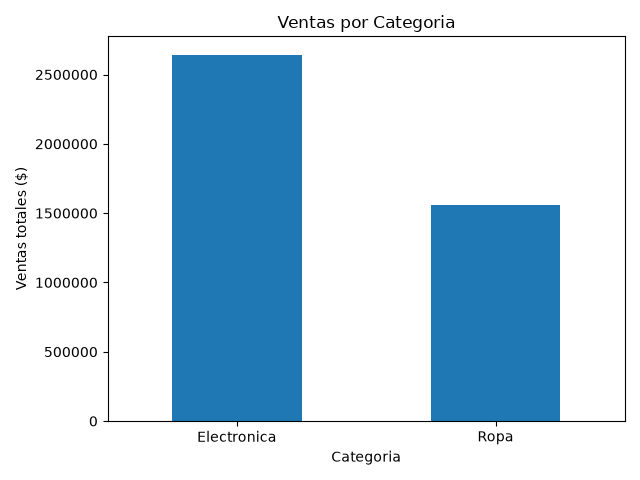
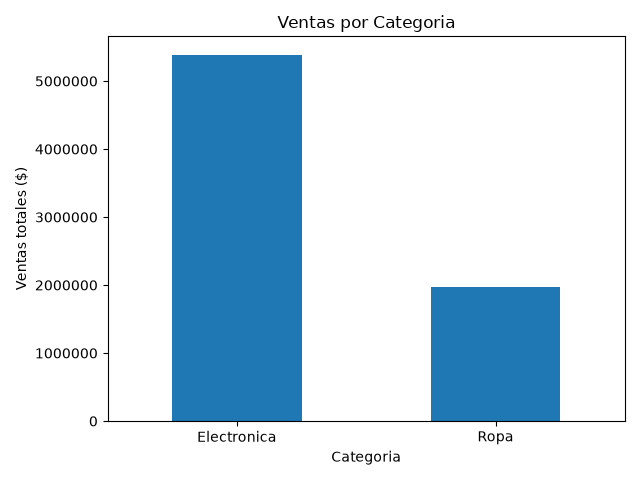
agregar métricas de negocio y reflexión final al README

diff --git a/main.py b/main.py
@@ -73,10 +73,43 @@ def procesar_todo():
     print(producto_mas_vendido)
     print(f"Producto mas vendido: {producto_mas_vendido.index[0]} con {producto_mas_vendido.iloc[0]} ventas")
 
-    with open("resultados/log_automatizacion.txt", "a") as f:
+    with open("resultados/log_automatizacion.txt", "a", encoding="utf-8") as f:
         f.write(f"Proceso ejecutado: {pd.Timestamp.now()}\n")
         f.write(f"Total de registros procesados: {len(df_limpio)}\n")
         f.write("---\n")
+
+    # ============================================
+    # Banner visual con resumen en pantalla
+    # ============================================
+    total_ventas = df_limpio['precio_unitario'].sum()
+    print("=" * 40)
+    print("  NUEVO REPORTE PROCESADO EXITOSAMENTE")
+    print(f"  Total ventas acumuladas: ${total_ventas:,.0f}")
+    print("=" * 40)
+
+    # ============================================
+    # Resumen ejecutivo en archivo de texto
+    # (usamos df_limpio, no df_consolidado, para que
+    # el resumen refleje los datos ya sin nulos ni duplicados)
+    # ============================================
+    categoria_top = df_limpio.groupby('categoria')['precio_unitario'].sum().idxmax()
+    vendedor_top = df_limpio.groupby('vendedor')['precio_unitario'].sum().idxmax()
+
+    # Métrica nueva 1: producto más vendido (reutilizando value_counts() de arriba)
+    producto_top = producto_mas_vendido.index[0]
+    unidades_producto_top = producto_mas_vendido.iloc[0]
+
+    # Métrica nueva 2: promedio de venta por transacción
+    promedio_venta = df_limpio['precio_unitario'].mean()
+
+    with open("resultados/resumen_ejecutivo.txt", "w", encoding="utf-8") as f:
+        f.write("RESUMEN EJECUTIVO - Bot de Ventas\n")
+        f.write(f"Fecha: {pd.Timestamp.now()}\n\n")
+        f.write(f"Categoria con mejor desempeño: {categoria_top}\n")
+        f.write(f"Vendedor con mas ventas: {vendedor_top}\n")
+        f.write(f"Producto mas vendido: {producto_top} ({unidades_producto_top} ventas)\n")
+        f.write(f"Promedio de venta por transaccion: ${promedio_venta:,.0f}\n")
+        f.write(f"Total de ventas acumuladas: ${total_ventas:,.0f}\n")
 
 
 os.makedirs("resultados", exist_ok=True)

diff --git a/README.md b/README.md
@@ -1,22 +1,27 @@
-# Bot de Ventas
+## Análisis de negocio
 
-Script en Python que consolida reportes de ventas de 4 sucursales (Medellín, Bogotá, Cali, Barranquilla) en distintos formatos (CSV/XLSX), limpia los datos y genera un análisis con gráficos.
+**¿Qué categoría de productos deberíamos priorizar en inventario y promociones?**
+Electrónica es la categoría con mejor desempeño en ventas totales, por encima de Ropa. Conviene asegurar stock de esa línea antes que la otra.
 
-## Resultados
+**¿Qué vendedor está generando más ingresos y qué se puede aprender de su desempeño?**
+Carlos es el vendedor con más ventas acumuladas. Vale la pena revisar qué está haciendo distinto (turnos, sucursal, tipo de producto que mueve) para replicarlo con el resto del equipo.
 
-- Categoría con más ventas: Electrónica (~$2.600.000) vs Ropa (~$1.600.000)
-- Vendedora con más ventas: Camila Ruiz (33.7% de participación)
-- Producto más vendido: Cargador USB-C (8 ventas)
+**¿Cuál es el producto que más rota y qué implica para el abastecimiento?**
+El Cargador USB-C es el producto más vendido con 8 unidades. Es un producto de bajo precio unitario y alta rotación, así que el riesgo de quiebre de stock es más urgente ahí que en productos de precio alto pero baja rotación.
 
-## Cómo ejecutar
+**¿El promedio de venta por transacción es sano para el negocio?**
+El promedio de venta por transacción es de $129,091. Sirve como línea base: si en próximos reportes ese promedio baja mientras el número de transacciones sube, puede indicar que se está vendiendo más volumen pero de productos más baratos (como el cargador), lo cual cambia la estrategia de precios o de combos.
 
-pip install pandas matplotlib openpyxl
-python main.py
+## Conclusión
 
-## Automatización
+Con 57 transacciones consolidadas de 4 sucursales, el negocio depende fuertemente de Electrónica y de un producto de bajo costo (Cargador USB-C) para su volumen de ventas, mientras que el ingreso está concentrado en un vendedor top (Carlos). Esto sugiere dos riesgos a vigilar: dependencia de un solo producto de alta rotación y baja diversificación en el desempeño del equipo de ventas.
 
-El script no se ejecuta una sola vez: al correr `python main.py`, primero procesa lo que ya haya en `datos/`, y después se queda vigilando esa carpeta de forma indefinida.
+## Reflexión final
 
-**Cómo detecta archivos nuevos:** cada 5 segundos compara la lista de archivos que hay en `datos/` contra la última lista que guardó en memoria. La diferencia entre ambas listas son los archivos nuevos. No usa ninguna librería externa de monitoreo, solo `os.listdir()` y una resta de conjuntos (`set`).
+Como dueño del negocio, confiaría en este sistema para **monitorear tendencias y alertar** (qué categoría cae, qué vendedor se estanca, si el promedio de transacción baja), pero no para **tomar decisiones finales por sí solo**. Las razones:
 
-**Qué pasa cuando encuentra uno:** si el archivo nuevo termina en `.csv` o `.xlsx`, se dispara todo el proceso de nuevo: lee **todos** los archivos de `datos/` (no solo el nuevo), consolida, limpia duplicados y vacíos, normaliza la columna con nombres distintos (`Fecha_Venta`), regenera el consolidado y los dos gráficos, y agrega una línea al log en `resultados/log_automatizacion.txt` con la fecha y el total de registros procesados. Así el consolidado y los gráficos siempre reflejan el estado completo de la carpeta, no solo el último archivo que llegó.
+- El script no distingue causas: si el promedio de venta baja, no sabe si es por una promoción intencional, un error de precios cargado mal, o una caída real de demanda. Esa distinción la tiene que hacer una persona.
+- `dropna()` y `drop_duplicates()` eliminan filas automáticamente sin que nadie revise si eran errores de digitación o ventas reales mal registradas — eso puede estar ocultando pérdidas de datos importantes.
+- Las métricas están calculadas sobre datos acumulados desde el inicio, sin filtro de fechas: no distingue "esta semana" de "todo el histórico", así que una mala racha reciente puede quedar diluida entre los buenos meses anteriores.
+
+En resumen: lo usaría como el primer filtro que me dice **dónde mirar**, no como el que me dice **qué decidir**.
